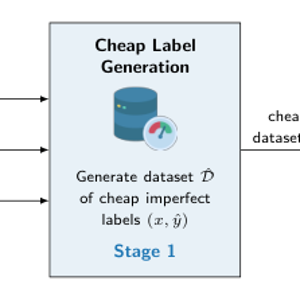
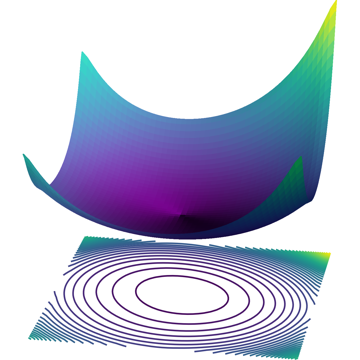
Refine paper thumbnails per feedback
- TinyMPC: widen crop to show more of the drone/right side
- Cheap Thrills: use the Fig 2 loss-landscape surface
- TD-GRPC: use the other H1 task (balance) from HumanoidBench

diff --git a/index.html b/index.html
@@ -116,7 +116,7 @@
     <!-- TD-GRPC -->
     <tr>
       <td width="180" valign="middle" align="left" style="padding-left:0">
-        <div class="one"><img src="images/tdgrpc_walk.gif" alt="TD-GRPC humanoid locomotion"></div>
+        <div class="one"><img src="images/tdgrpc_balance.gif" alt="TD-GRPC humanoid locomotion"></div>
       </td>
       <td valign="middle">
         <papertitle>TD-GRPC: Temporal Difference Learning with Group Relative Policy Constraint for Humanoid Locomotion</papertitle><br>
